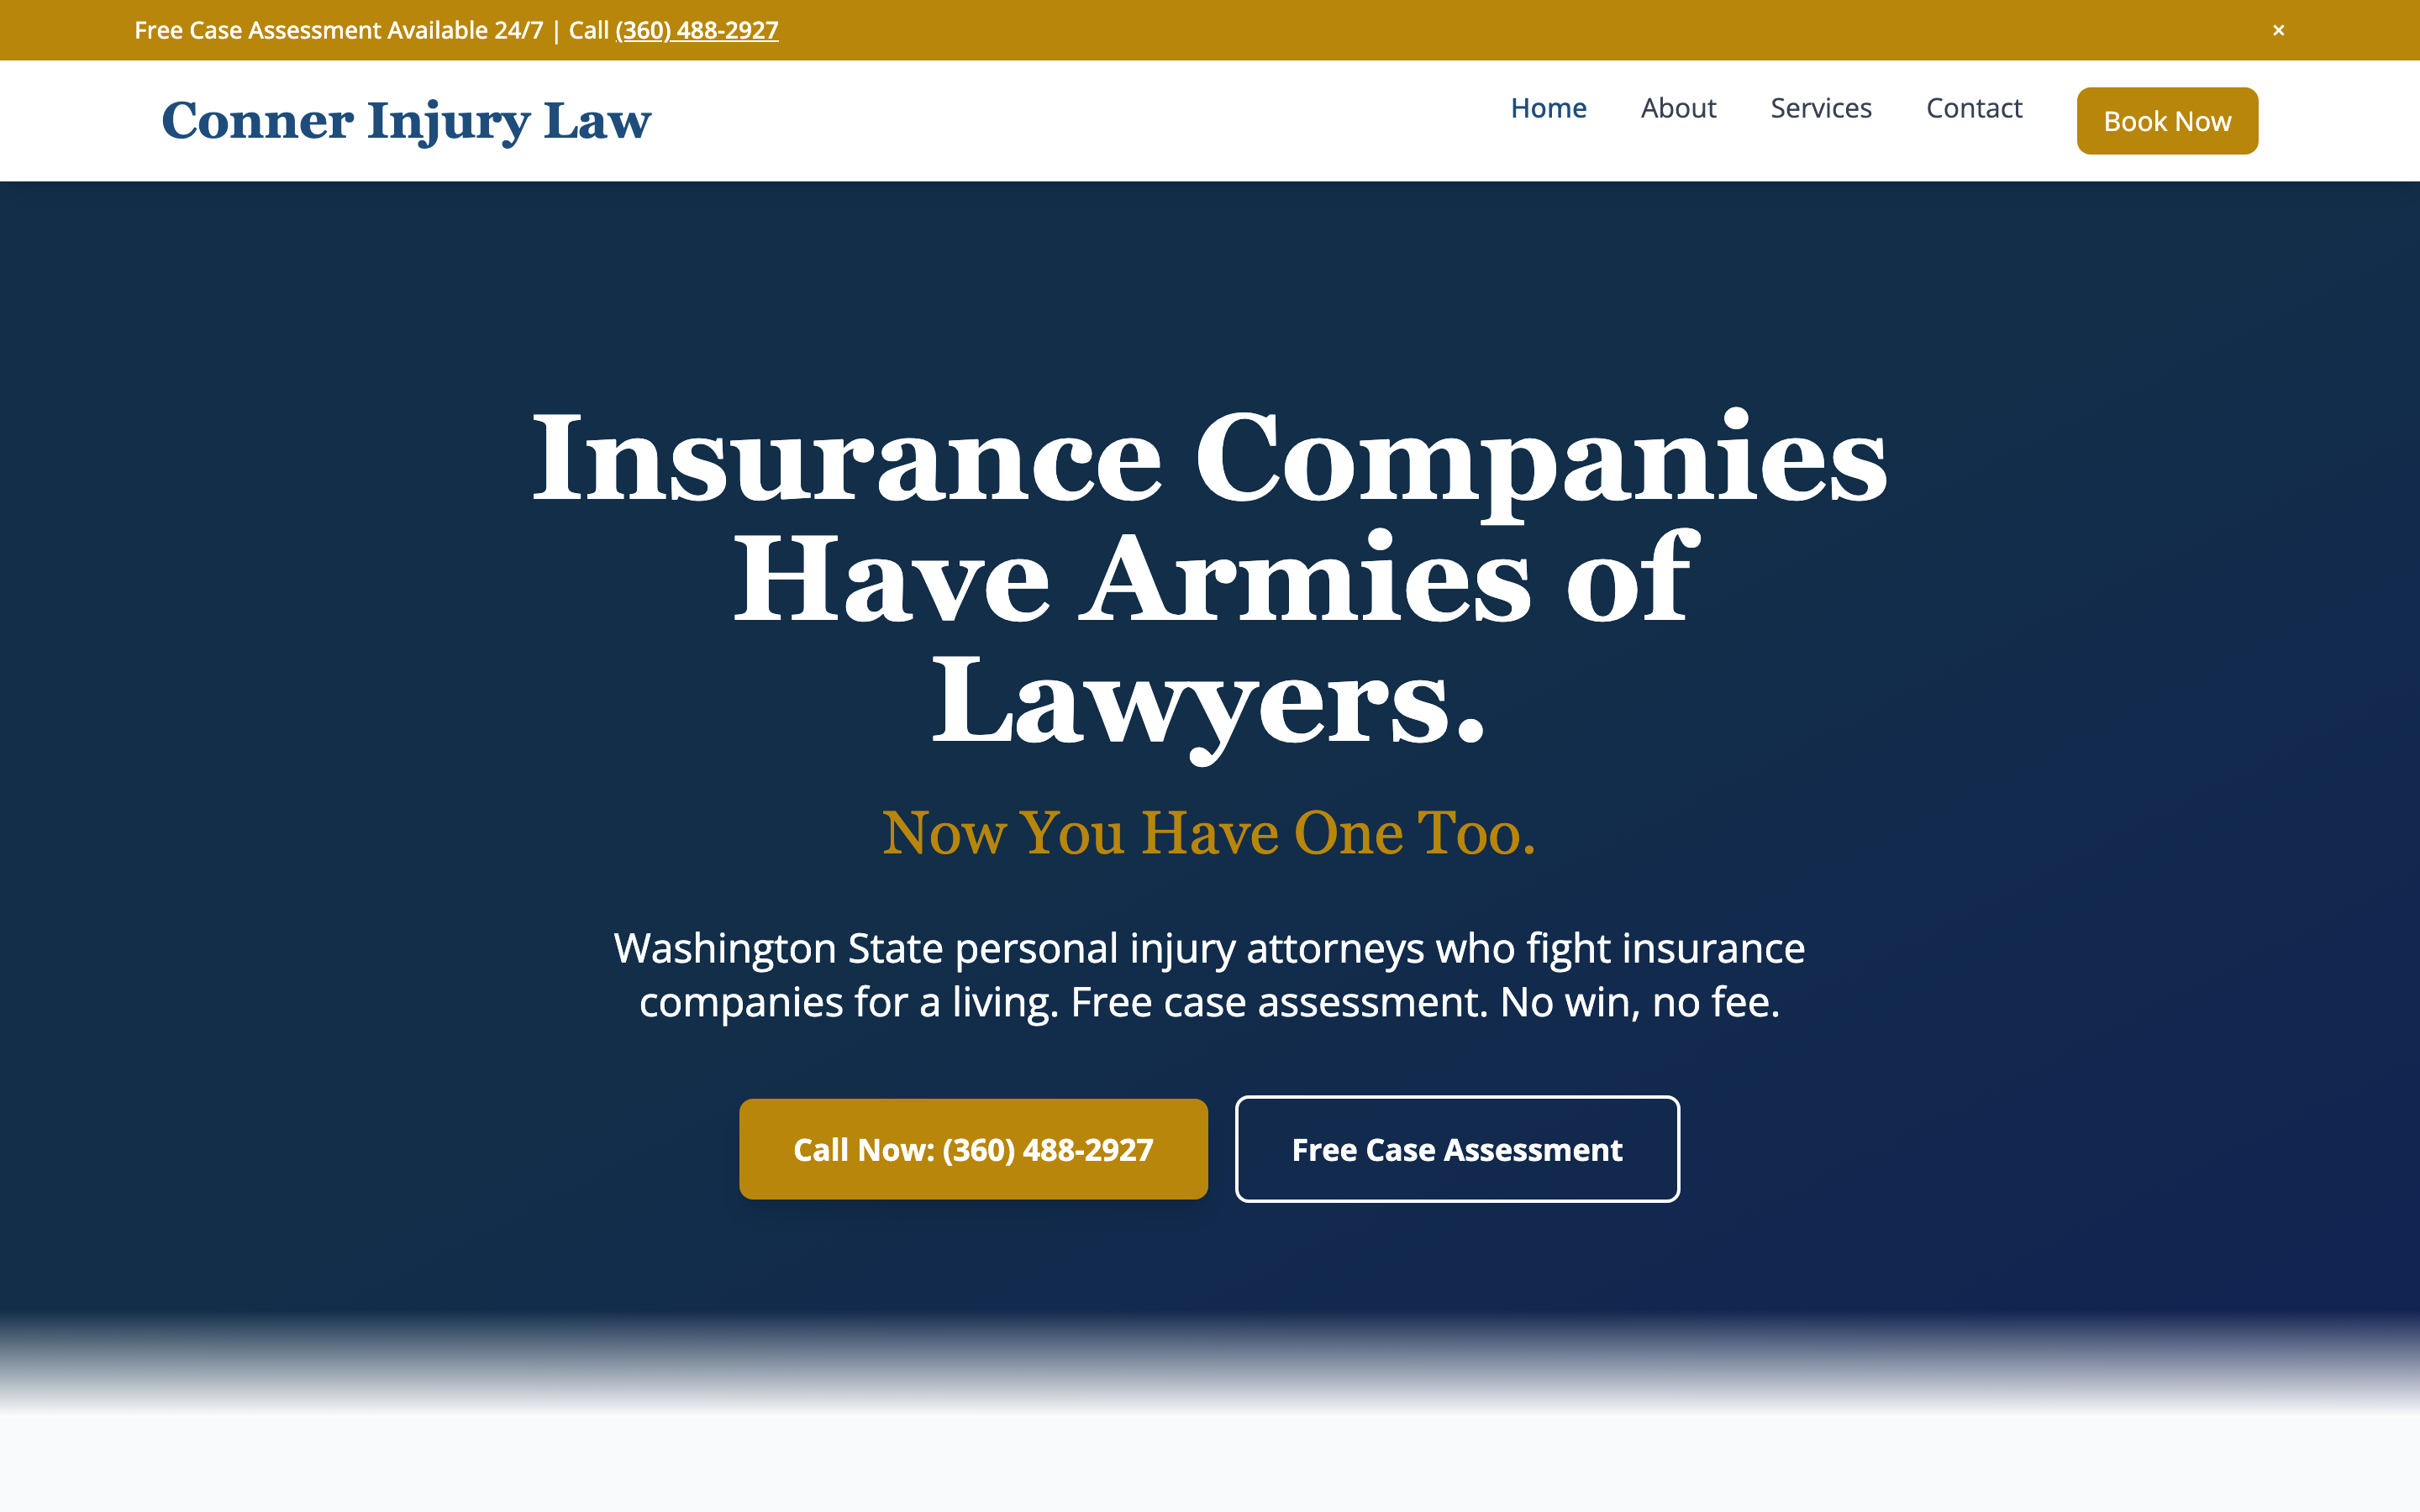
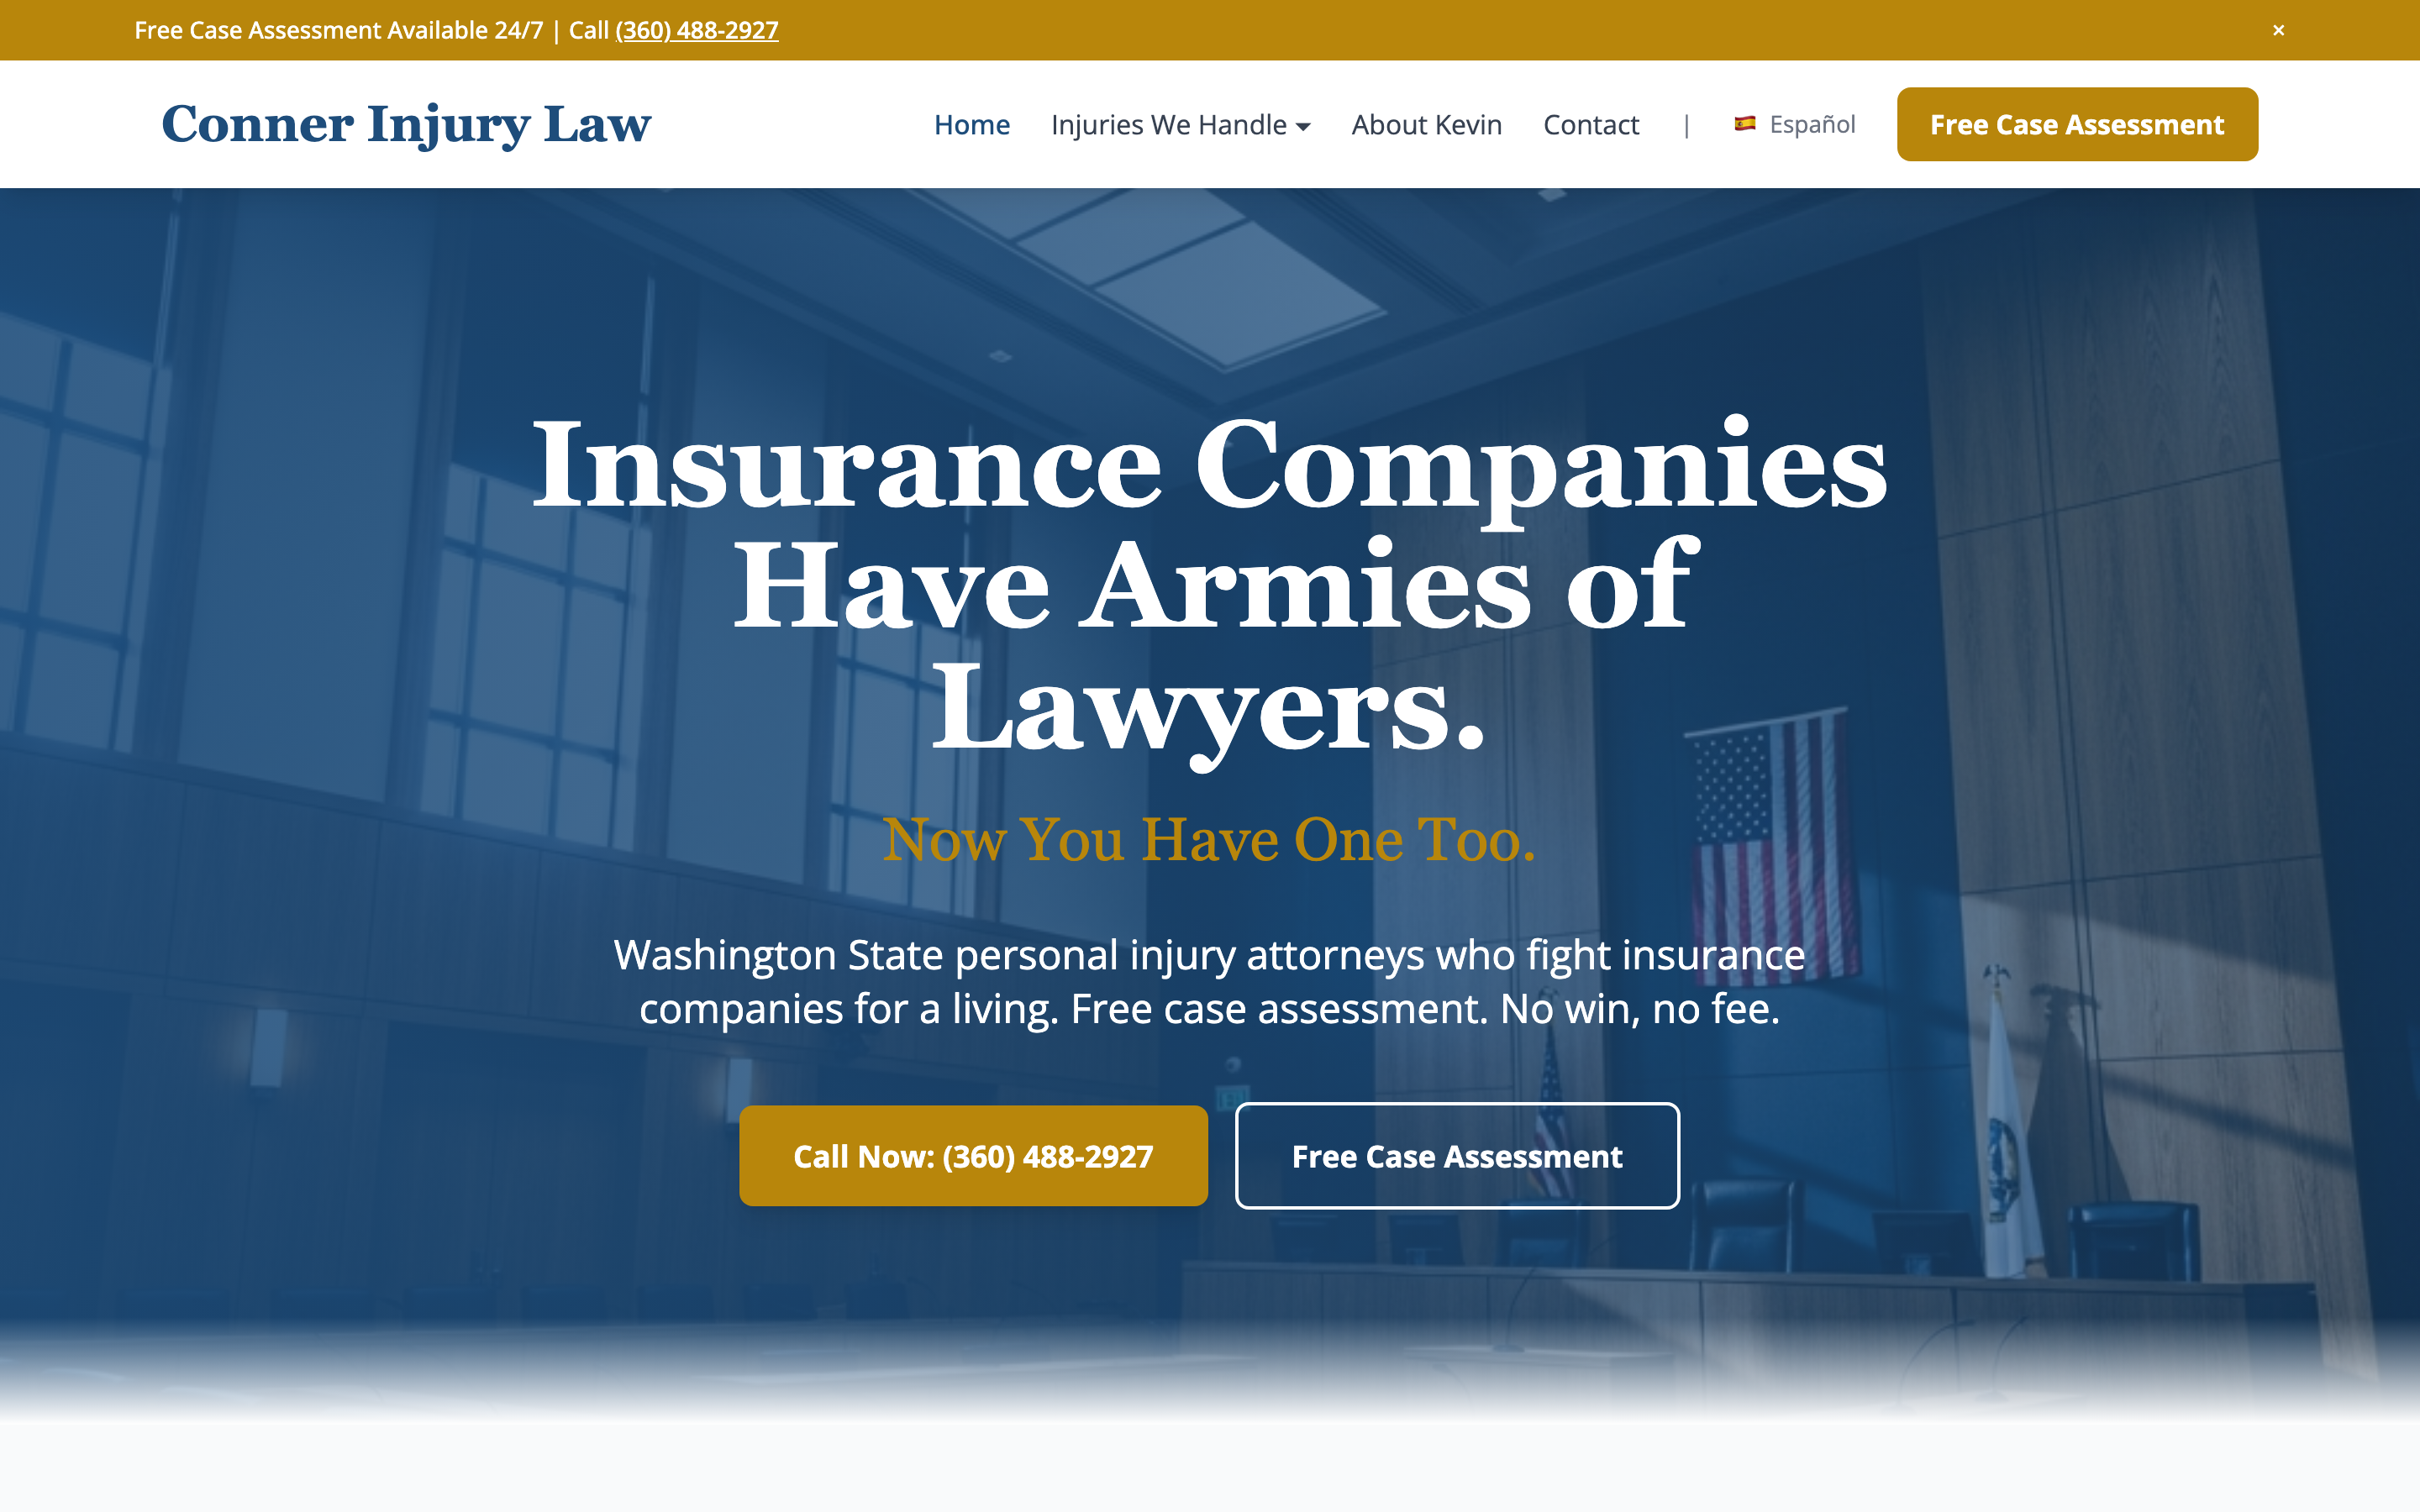
Update Conner case study with injury landing pages + local WA photos
Added 4 injury-specific landing pages (car accidents, TBI, CRPS,
workplace), Skagit Valley and Mount Vernon photos, courtroom hero
background, attorney portrait, case results section on homepage.
9 total pages, 15 AI photos now.

diff --git a/case-study-conner.html b/case-study-conner.html
@@ -4,7 +4,7 @@
     <meta charset="UTF-8">
     <meta name="viewport" content="width=device-width, initial-scale=1.0">
     <title>Conner Injury Law — Case Study | Nunya Bunya</title>
-    <meta name="description" content="How Nunya Bunya transformed Conner Injury Law with Generic legal website transformed into trusted Washington injury authority.">
+    <meta name="description" content="How Nunya Bunya transformed Conner Injury Law with Transforming personal injury law marketing for maximum client impact.">
     <link href="https://fonts.googleapis.com/css2?family=Barlow+Condensed:wght@400;600;700;900&family=Plus+Jakarta+Sans:wght@300;400;500;600&display=swap" rel="stylesheet">
     <script src="https://cdn.tailwindcss.com"></script>
     <script>
@@ -74,7 +74,7 @@
             Conner<br>Injury Law
         </h1>
         <p class="text-xl lg:text-2xl text-white/70 max-w-2xl mb-10">
-            From generic legal website to trusted Washington personal injury authority attracting high-value TBI and catastrophic injury cases.
+            From generic legal marketing to a powerful personal injury brand that commands respect in Washington State courtrooms.
         </p>
         <div class="grid grid-cols-2 lg:grid-cols-4 gap-4 mb-10">
                         <div class="stat-card">
@@ -82,15 +82,15 @@
                 <div class="text-white/50 text-sm mt-1">Page Brand Bible</div>
             </div>
             <div class="stat-card">
-                <div class="stat-number">5</div>
+                <div class="stat-number">9</div>
                 <div class="text-white/50 text-sm mt-1">Website Pages</div>
             </div>
             <div class="stat-card">
-                <div class="stat-number">10+</div>
+                <div class="stat-number">14+</div>
                 <div class="text-white/50 text-sm mt-1">AI Photoshoot Images</div>
             </div>
             <div class="stat-card">
-                <div class="stat-number">20</div>
+                <div class="stat-number">24</div>
                 <div class="text-white/50 text-sm mt-1">Brand Assets Created</div>
             </div>
         </div>
@@ -122,39 +122,39 @@
     <div class="grid md:grid-cols-2 lg:grid-cols-3 gap-4 mt-10">
                 <div class="strategy-card">
             <p class="problem">Problem</p>
-            <p class="text-white/70 text-sm">Generic legal branding that failed to differentiate from hundreds of other injury lawyers</p>
+            <p class="text-white/70 text-sm">Generic legal website failing to differentiate from competitors</p>
             <p class="decision">Strategic Fix</p>
-            <p class="text-white/90 text-sm">Developed distinctive brand identity emphasising Kevin's $50 million track record and insurance company expertise</p>
+            <p class="text-white/90 text-sm">Created compelling narrative around Kevin's mission to level the playing field against insurance companies</p>
         </div>
         <div class="strategy-card">
             <p class="problem">Problem</p>
-            <p class="text-white/70 text-sm">Website buried complex specialties like CRPS and TBI under generic 'personal injury' messaging</p>
+            <p class="text-white/70 text-sm">No visual representation of complex injury cases like CRPS and TBI</p>
             <p class="decision">Strategic Fix</p>
-            <p class="text-white/90 text-sm">Created dedicated service pages highlighting expertise in traumatic brain injuries and complex regional pain syndrome</p>
+            <p class="text-white/90 text-sm">Developed 14 AI-generated images showing real injury scenarios and courtroom victories</p>
         </div>
         <div class="strategy-card">
             <p class="problem">Problem</p>
-            <p class="text-white/70 text-sm">Stock photography showing generic courtrooms instead of Mount Vernon community connection</p>
+            <p class="text-white/70 text-sm">Weak messaging that didn't convey $50 million in recovered damages</p>
             <p class="decision">Strategic Fix</p>
-            <p class="text-white/90 text-sm">AI photoshoot featuring Kevin in authentic Mount Vernon settings and Washington State locations</p>
+            <p class="text-white/90 text-sm">Crafted authoritative copy highlighting track record and willingness to go to trial</p>
         </div>
         <div class="strategy-card">
             <p class="problem">Problem</p>
-            <p class="text-white/70 text-sm">No clear value proposition explaining why clients should choose Conner over larger Seattle firms</p>
+            <p class="text-white/70 text-sm">Mount Vernon location not leveraged for Skagit County market dominance</p>
             <p class="decision">Strategic Fix</p>
-            <p class="text-white/90 text-sm">Positioned Kevin as the David vs Goliath fighter who knows insurance company tactics from Skagit County to Vancouver</p>
+            <p class="text-white/90 text-sm">Positioned as the go-to firm from Skagit County to Vancouver with local expertise</p>
         </div>
         <div class="strategy-card">
             <p class="problem">Problem</p>
-            <p class="text-white/70 text-sm">Missing social proof and case study content to support $50 million recovery claims</p>
+            <p class="text-white/70 text-sm">Missing branded materials for client communications and referrals</p>
             <p class="decision">Strategic Fix</p>
-            <p class="text-white/90 text-sm">Built comprehensive asset library with case study templates and client success story frameworks</p>
+            <p class="text-white/90 text-sm">Built comprehensive asset library for consistent professional presentation</p>
         </div>
         <div class="strategy-card">
             <p class="problem">Problem</p>
-            <p class="text-white/70 text-sm">Technical SEO issues preventing high-value injury searches from finding the Mount Vernon practice</p>
+            <p class="text-white/70 text-sm">Website structure not optimised for personal injury case types</p>
             <p class="decision">Strategic Fix</p>
-            <p class="text-white/90 text-sm">Optimised website architecture for Washington State injury law searches and local Mount Vernon visibility</p>
+            <p class="text-white/90 text-sm">Designed 9 strategic pages targeting specific injuries and workplace accidents</p>
         </div>
     </div>
 </section>
@@ -172,8 +172,12 @@
             <img src="images/case-study-conner/ai-photoshoot/hero-attorney.png" alt="Hero Attorney" style="height:100%;">
             <img src="images/case-study-conner/ai-photoshoot/hero-courtroom.png" alt="Hero Courtroom" style="height:100%;">
             <img src="images/case-study-conner/ai-photoshoot/scene-car-accident.png" alt="Scene Car Accident" style="height:100%;">
+            <img src="images/case-study-conner/ai-photoshoot/scene-consultation.png" alt="Scene Consultation" style="height:100%;">
             <img src="images/case-study-conner/ai-photoshoot/scene-hospital.png" alt="Scene Hospital" style="height:100%;">
             <img src="images/case-study-conner/ai-photoshoot/scene-i5-highway.png" alt="Scene I5 Highway" style="height:100%;">
+            <img src="images/case-study-conner/ai-photoshoot/scene-i5-traffic.png" alt="Scene I5 Traffic" style="height:100%;">
+            <img src="images/case-study-conner/ai-photoshoot/scene-mount-vernon.png" alt="Scene Mount Vernon" style="height:100%;">
+            <img src="images/case-study-conner/ai-photoshoot/scene-skagit-valley.png" alt="Scene Skagit Valley" style="height:100%;">
             <img src="images/case-study-conner/ai-photoshoot/scene-tbi-medical.png" alt="Scene Tbi Medical" style="height:100%;">
             <img src="images/case-study-conner/ai-photoshoot/scene-washington-skyline.png" alt="Scene Washington Skyline" class="span-2" style="height:100%;">
         </div>
@@ -274,7 +278,7 @@
 <!-- ═══════════ WEBSITE PAGES ═══════════ -->
 <section class="max-w-6xl mx-auto px-6 py-20">
     <p class="section-label">Creative — Website</p>
-    <h2 class="font-heading font-black text-4xl uppercase tracking-wide mb-3">5-Page Website</h2>
+    <h2 class="font-heading font-black text-4xl uppercase tracking-wide mb-3">9-Page Website</h2>
     <p class="text-white/50 mb-10 max-w-xl">Tailwind CSS, fully responsive, SEO-optimised, Schema.org structured data. Deployed on Vercel.</p>
     <div class="grid md:grid-cols-2 lg:grid-cols-3 gap-4">
         <div class="asset-card asset-card-tall">
@@ -292,10 +296,31 @@
             </div>
         </div>
         <div class="asset-card asset-card-tall">
+            <img src="images/case-study-conner/after-cropped/brain-injuries-desktop.png" alt="Brain-Injuries page" onerror="this.src='images/case-study-conner/after/brain-injuries-desktop.png'">
+            <div class="p-4">
+                <p class="font-semibold text-sm">Brain-Injuries</p>
+                <p class="text-white/40 text-xs"></p>
+            </div>
+        </div>
+        <div class="asset-card asset-card-tall">
+            <img src="images/case-study-conner/after-cropped/car-accidents-desktop.png" alt="Car-Accidents page" onerror="this.src='images/case-study-conner/after/car-accidents-desktop.png'">
+            <div class="p-4">
+                <p class="font-semibold text-sm">Car-Accidents</p>
+                <p class="text-white/40 text-xs"></p>
+            </div>
+        </div>
+        <div class="asset-card asset-card-tall">
             <img src="images/case-study-conner/after-cropped/contact-desktop.png" alt="Contact page" onerror="this.src='images/case-study-conner/after/contact-desktop.png'">
             <div class="p-4">
                 <p class="font-semibold text-sm">Contact</p>
                 <p class="text-white/40 text-xs">Form, map, hours, direct phone link</p>
+            </div>
+        </div>
+        <div class="asset-card asset-card-tall">
+            <img src="images/case-study-conner/after-cropped/crps-desktop.png" alt="Crps page" onerror="this.src='images/case-study-conner/after/crps-desktop.png'">
+            <div class="p-4">
+                <p class="font-semibold text-sm">Crps</p>
+                <p class="text-white/40 text-xs"></p>
             </div>
         </div>
         <div class="asset-card asset-card-tall">
@@ -312,6 +337,13 @@
                 <p class="text-white/40 text-xs">Full service listing with pricing</p>
             </div>
         </div>
+        <div class="asset-card asset-card-tall">
+            <img src="images/case-study-conner/after-cropped/workplace-injuries-desktop.png" alt="Workplace-Injuries page" onerror="this.src='images/case-study-conner/after/workplace-injuries-desktop.png'">
+            <div class="p-4">
+                <p class="font-semibold text-sm">Workplace-Injuries</p>
+                <p class="text-white/40 text-xs"></p>
+            </div>
+        </div>
     </div>
 </section>
 
@@ -325,35 +357,35 @@
                 <div class="flex-shrink-0 w-12 h-12 rounded-full bg-primary/20 flex items-center justify-center font-heading font-bold text-primary text-xl">1</div>
                 <div>
                     <h3 class="font-heading font-bold text-xl uppercase tracking-wide mb-2">Discovery & Audit</h3>
-                    <p class="text-white/60">Analysed Kevin's unique positioning as an insurance company insider turned advocate and identified gaps in communicating complex injury specialties. Discovered strong case results but weak digital presence failing to attract catastrophic injury cases worth $150,000+.</p>
+                    <p class="text-white/60">We analysed Conner Injury Law's position in Washington's competitive personal injury market and Kevin's unique background fighting insurance companies. Our audit revealed missed opportunities to showcase their $50 million recovery track record and specialisation in complex cases like CRPS and traumatic brain injuries.</p>
                 </div>
             </div>
             <div class="flex gap-6 items-start">
                 <div class="flex-shrink-0 w-12 h-12 rounded-full bg-primary/20 flex items-center justify-center font-heading font-bold text-primary text-xl">2</div>
                 <div>
                     <h3 class="font-heading font-bold text-xl uppercase tracking-wide mb-2">Brand Bible (BFK)</h3>
-                    <p class="text-white/60">Created comprehensive brand strategy positioning Conner Injury Law as Washington's specialist for complex cases like TBI and CRPS. Developed messaging hierarchy emphasising Kevin's $50 million track record and insurance company playbook knowledge.</p>
+                    <p class="text-white/60">We developed a comprehensive brand strategy positioning Kevin Conner as the lawyer who knows every insurance company trick and isn't afraid of trial. The brand bible established messaging pillars around levelling the playing field, with specific focus on their Mount Vernon base serving clients statewide.</p>
                 </div>
             </div>
             <div class="flex gap-6 items-start">
                 <div class="flex-shrink-0 w-12 h-12 rounded-full bg-primary/20 flex items-center justify-center font-heading font-bold text-primary text-xl">3</div>
                 <div>
                     <h3 class="font-heading font-bold text-xl uppercase tracking-wide mb-2">AI Photoshoot</h3>
-                    <p class="text-white/60">Generated 10 professional images featuring Kevin in Mount Vernon courthouse, consultation settings, and Washington State backdrops. Created authentic visuals showing competence and approachability for traumatic brain injury and workplace accident victims.</p>
+                    <p class="text-white/60">We created 14 professional images depicting various injury scenarios, courtroom settings, and Kevin in action across Washington State. These visuals specifically represent car accidents, workplace injuries, and catastrophic cases to resonate with potential clients facing similar situations.</p>
                 </div>
             </div>
             <div class="flex gap-6 items-start">
                 <div class="flex-shrink-0 w-12 h-12 rounded-full bg-primary/20 flex items-center justify-center font-heading font-bold text-primary text-xl">4</div>
                 <div>
                     <h3 class="font-heading font-bold text-xl uppercase tracking-wide mb-2">Website Build</h3>
-                    <p class="text-white/60">Built 5-page responsive website with dedicated sections for each specialty including Car Accidents, TBI, CRPS, Workplace Injuries, and Catastrophic Cases. Implemented local SEO targeting Mount Vernon and broader Washington State injury searches.</p>
+                    <p class="text-white/60">We constructed a 9-page website optimised for personal injury searches across Skagit County and Washington State. The technical build focused on case-specific landing pages for TBI, CRPS, and workplace injuries, with clear calls-to-action for Mount Vernon consultations.</p>
                 </div>
             </div>
             <div class="flex gap-6 items-start">
                 <div class="flex-shrink-0 w-12 h-12 rounded-full bg-primary/20 flex items-center justify-center font-heading font-bold text-primary text-xl">5</div>
                 <div>
                     <h3 class="font-heading font-bold text-xl uppercase tracking-wide mb-2">Asset Library</h3>
-                    <p class="text-white/60">Developed 10 branded social media templates highlighting case victories, injury law education, and Washington State legal updates. Created consistent visual system reinforcing expertise in complex personal injury cases across Skagit County.</p>
+                    <p class="text-white/60">We produced 10 branded social media assets and marketing materials for consistent communication across all touchpoints. These assets reinforce Conner Injury Law's authority in personal injury cases and support their referral network throughout Washington State.</p>
                 </div>
             </div>
         </div>